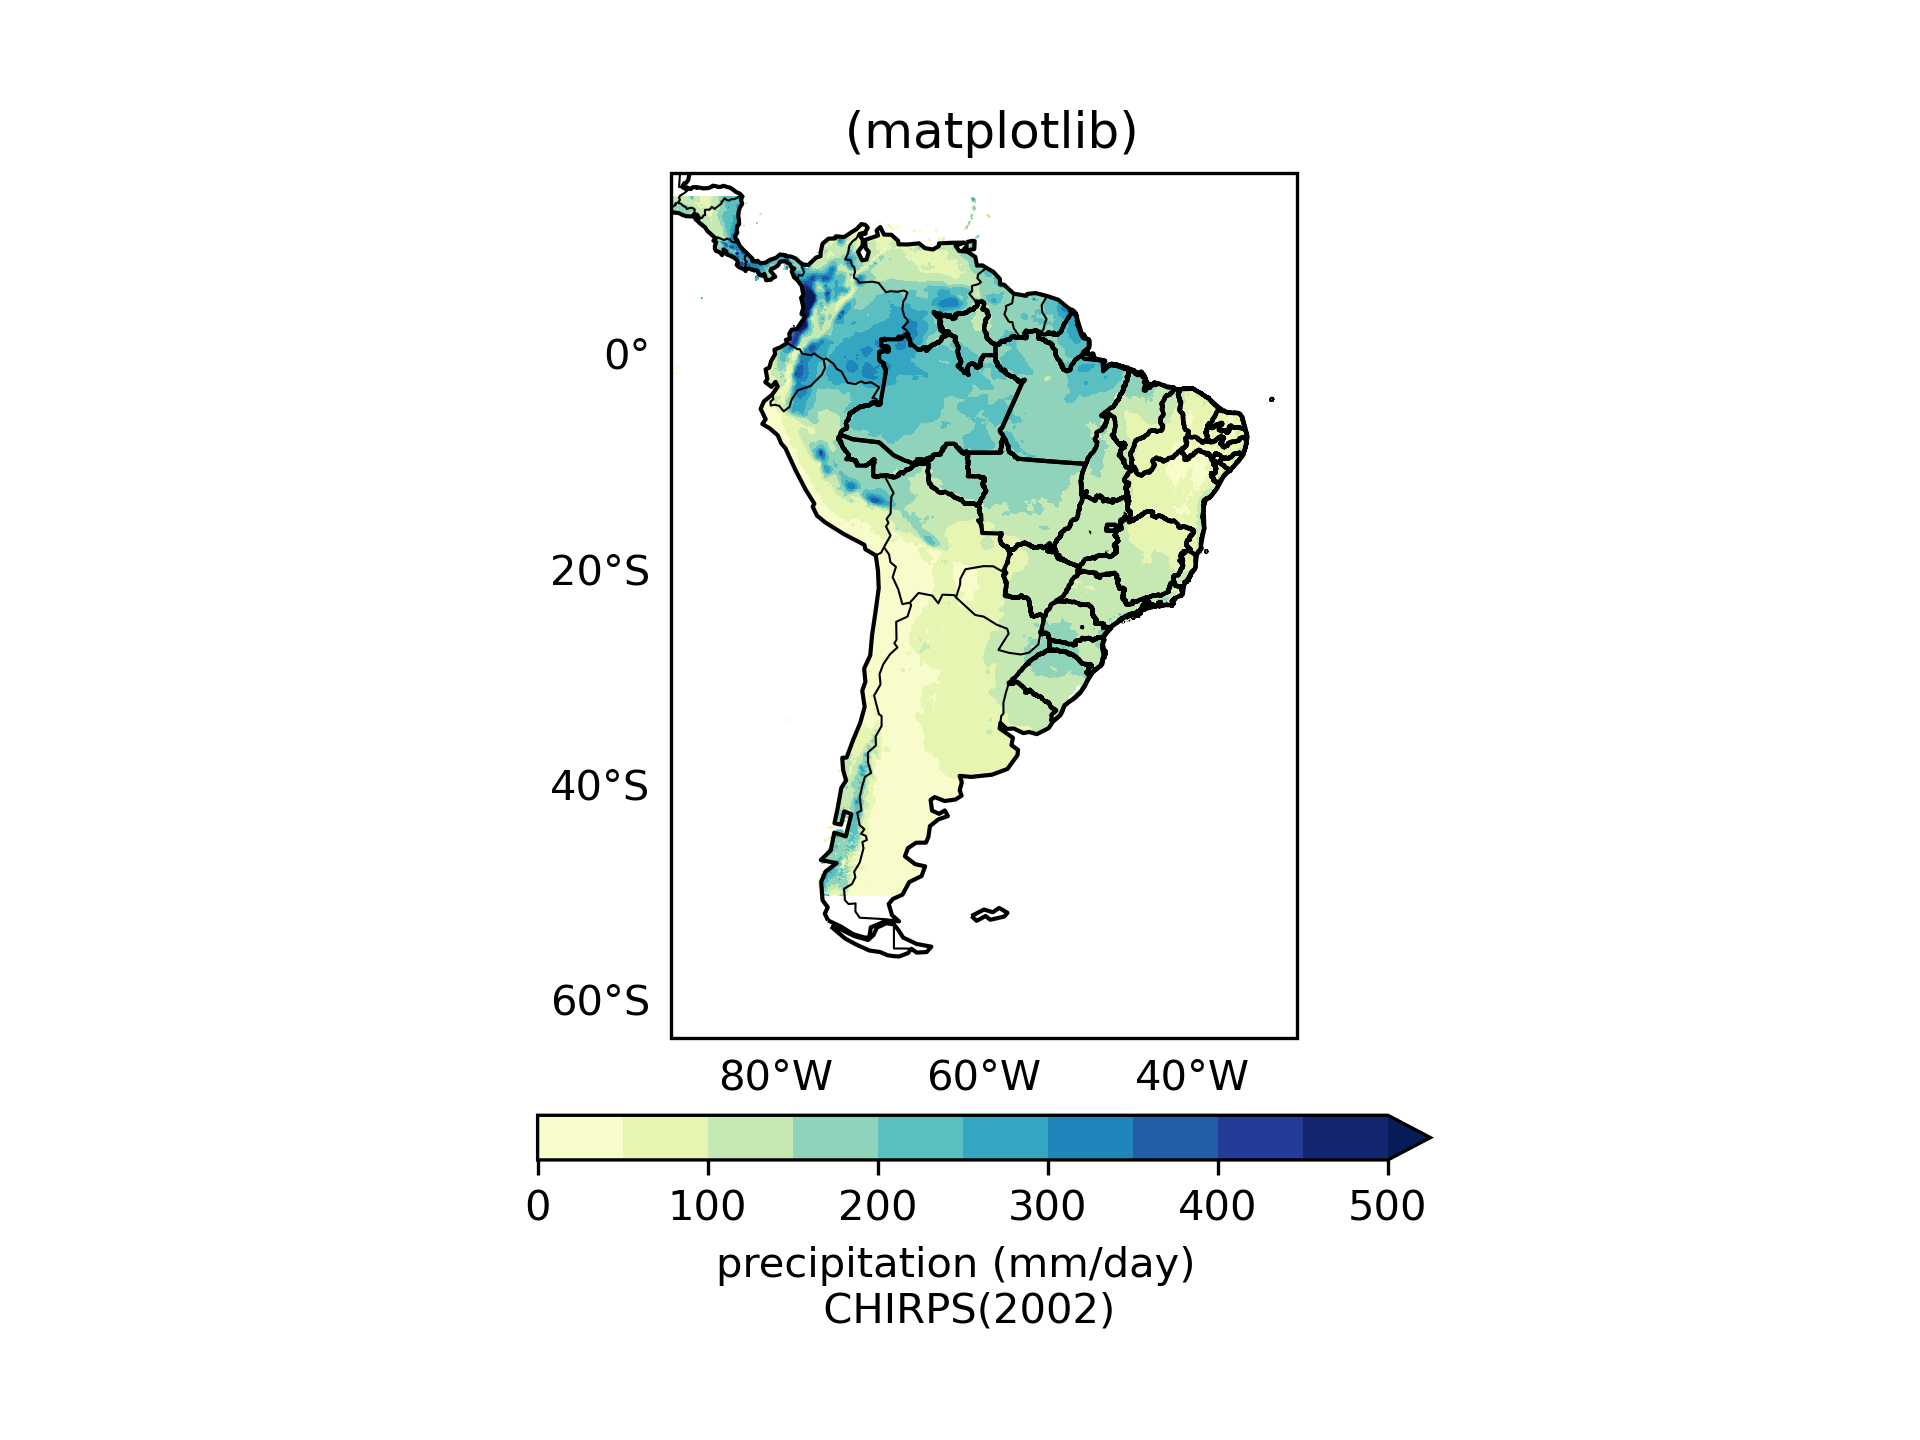
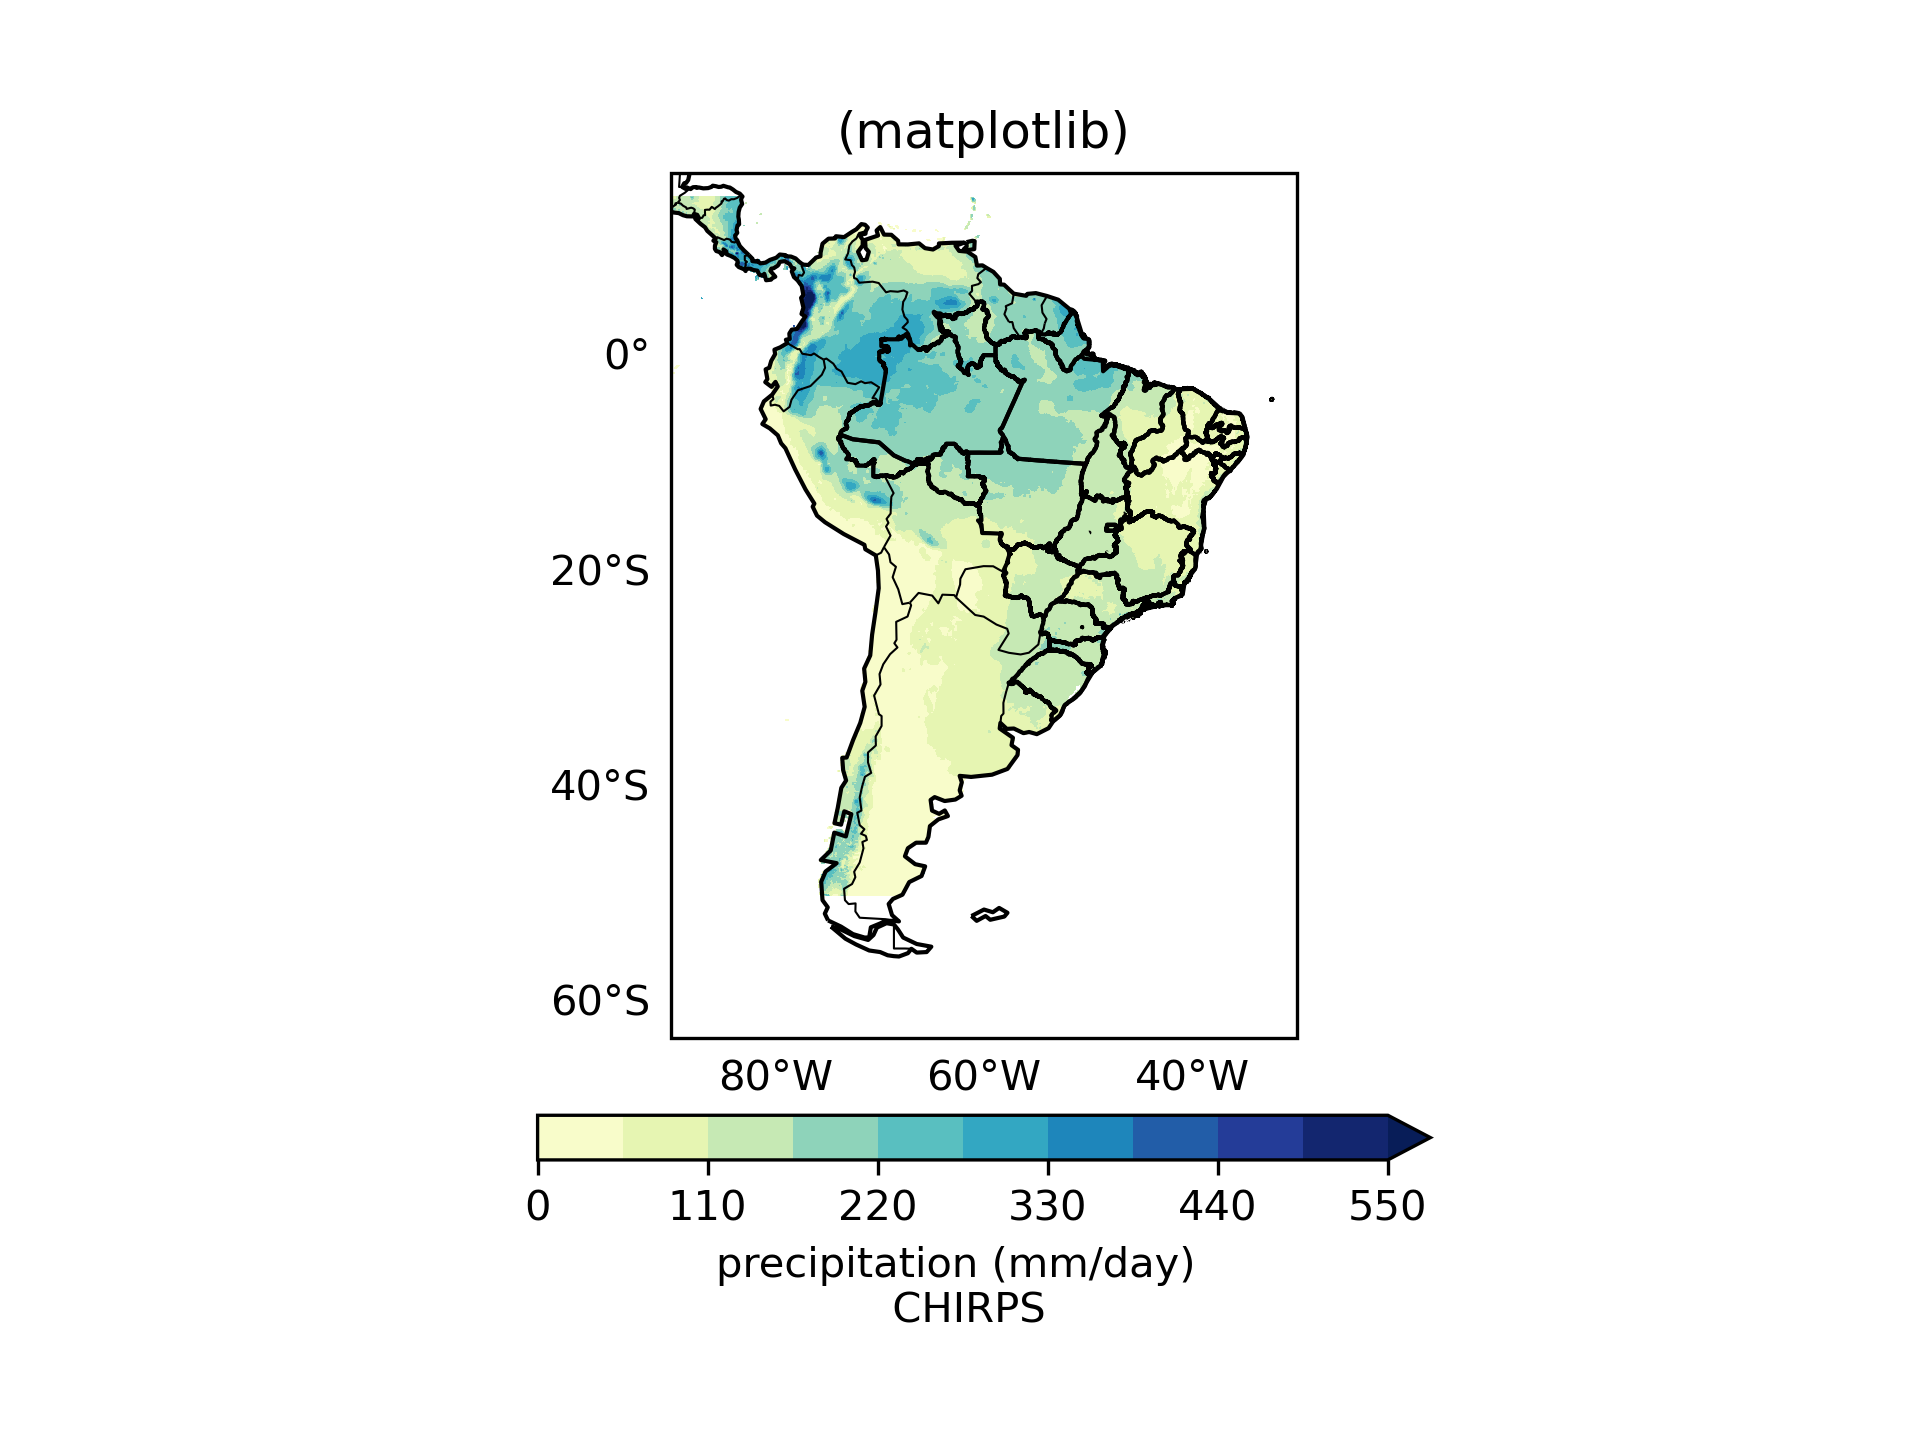
Fix some pictures

diff --git a/Atividade-4.5/CHIRPS1991_2020/CHIRPS1991_2020.py b/Atividade-4.5/CHIRPS1991_2020/CHIRPS1991_2020.py
@@ -50,31 +50,31 @@ gl.right_labels = False
 gl.top_labels = False
 
 # Define os níveis de contorno
-levels = np.linspace(0.0, 500.0, 11)
+levels = np.linspace(0.0, 550.0, 11)
 
 # Inicializa um gráfico de contorno preenchido com os dados de precipitação (clim)
 cnplot = ax.contourf(clim.longitude, clim.latitude, clim,levels=levels, cmap='YlGnBu', extend='max')
 
 # Adiciona uma barra de cores (colorbar) na parte inferior do gráfico
 cbar = plt.colorbar(cnplot, orientation='horizontal', pad=0.07, shrink=0.6)
-cbar.set_label('precipitation (mm/day) \n CHIRPS(2002)')
+cbar.set_label('precipitation (mm/day) \n CHIRPS')
 
 # Define o título do gráfico
-ax.set_title(' (matplotlib)')
+ax.set_title('(matplotlib)')
 
 # Plota os limites dos estados (supondo que sejam limites de estados geográficos)
 estados.plot(ax=ax, color='none', edgecolor='black')
 
 # Salva a figura em um arquivo chamado 's1-matplot.png' com uma resolução de 300 dpi
-plt.savefig('./CHIRPS1991_2020/s1-CHIRPS.png', dpi=300)
+plt.savefig('s1-CHIRPS.png', dpi=300)
 
 # Exibe o gráfico na tela
-plt.show()
+# plt.show()
 
 def create_plot(ax, nrow, ncol, data, tlon, season=''):
-    ax.set_extent((-90.0, -30.0, -60.0, 15.0))  # Define a extensão geográfica
-    ax.coastlines(resolution='110m', color='black')  # Adiciona a linha da costa
-    ax.add_feature(cfeature.BORDERS, linewidth=0.5, edgecolor='black')  # Adiciona as fronteiras
+    ax.set_extent((-90.0, -30.0, -60.0, 15.0))
+    ax.coastlines(resolution='110m', color='black')
+    ax.add_feature(cfeature.BORDERS, linewidth=0.5, edgecolor='black')
 
     gl = ax.gridlines(draw_labels=True)
     gl.xlines = False
@@ -82,16 +82,15 @@ def create_plot(ax, nrow, ncol, data, tlon, season=''):
     gl.right_labels = False
     gl.top_labels = False
 
-    levels = np.linspace(0.0, 500.0, 11)  # Define os níveis de contorno Aqui, você está criando uma lista de 11 valores espaçados uniformemente entre 0 e 100. Esses valores representam os níveis de contorno que serão usados no gráfico.
-    cnplot = ax.contourf(data.longitude, data.latitude, data.sel(season=season), levels= levels, cmap='YlGnBu', extend='max')  # Cria um plot de contorno
-    ax.text(tlon, -55, season, bbox=dict(facecolor='white', alpha=0.7))  # Adiciona o nome da estação
+    levels = np.linspace(0.0, 550.0, 11)
+    cnplot = ax.contourf(data.longitude, data.latitude, data.sel(season=season), levels=levels, cmap='YlGnBu', extend='max')
+    ax.text(tlon, -55, season, bbox=dict(facecolor='white', alpha=0.7))
 
     return cnplot
 
 # Cria uma figura e uma grade de subplots
-fig = plt.figure()
-# plt.show()
-gs = gridspec.GridSpec(2, 2, hspace=0.12, wspace=0.00)
+fig = plt.figure(figsize=(10, 8))
+gs = gridspec.GridSpec(2, 2, hspace=0.2, wspace=0.00)
 
 # Define as estações que deseja plotar
 seasons = ['DJF', 'MAM', 'JJA', 'SON']
@@ -103,16 +102,15 @@ for i, season in enumerate(seasons):
     create_plot(plt.subplot(gs[row, col], projection=ccrs.PlateCarree()), row, col, sclim, -44, season)
 
 # Adiciona uma barra de cores
-cax = plt.axes([0.2, 0.065, 0.6, 0.069])
+cax = plt.axes([0.2, 0.065, 0.6, 0.01])
 cbar = plt.colorbar(create_plot(plt.subplot(gs[0, 0], projection=ccrs.PlateCarree()), 0, 0, sclim, -44, 'DJF'), cax=cax, orientation='horizontal', pad=0.4)
 
 # Salva a figura e a exibe
-plt.savefig('./CHIRPS1991_2020/s2-CHIRPS.png', dpi=300)
-
+plt.savefig('s2-CHIRPS.png', dpi=300)
 plt.show()
 
-img = Image.open("./CHIRPS1991_2020/s1-CHIRPS.png")
-img1 = Image.open("./CHIRPS1991_2020/s2-CHIRPS.png")
+img = Image.open("s1-CHIRPS.png")
+img1 = Image.open("s2-CHIRPS.png")
 
 # Redimensiona as imagens
 img_size = img.resize((670, 1024))
@@ -126,4 +124,4 @@ img2.paste(img_size, (0, 0))
 img2.paste(img1_size, (670, 0))
 
 # Salva a nova imagem
-img2.save('./CHIRPS1991_2020/s1-medias1991-2020Brasil.png')
+img2.save('s1-medias1991-2020Brasil.png')
